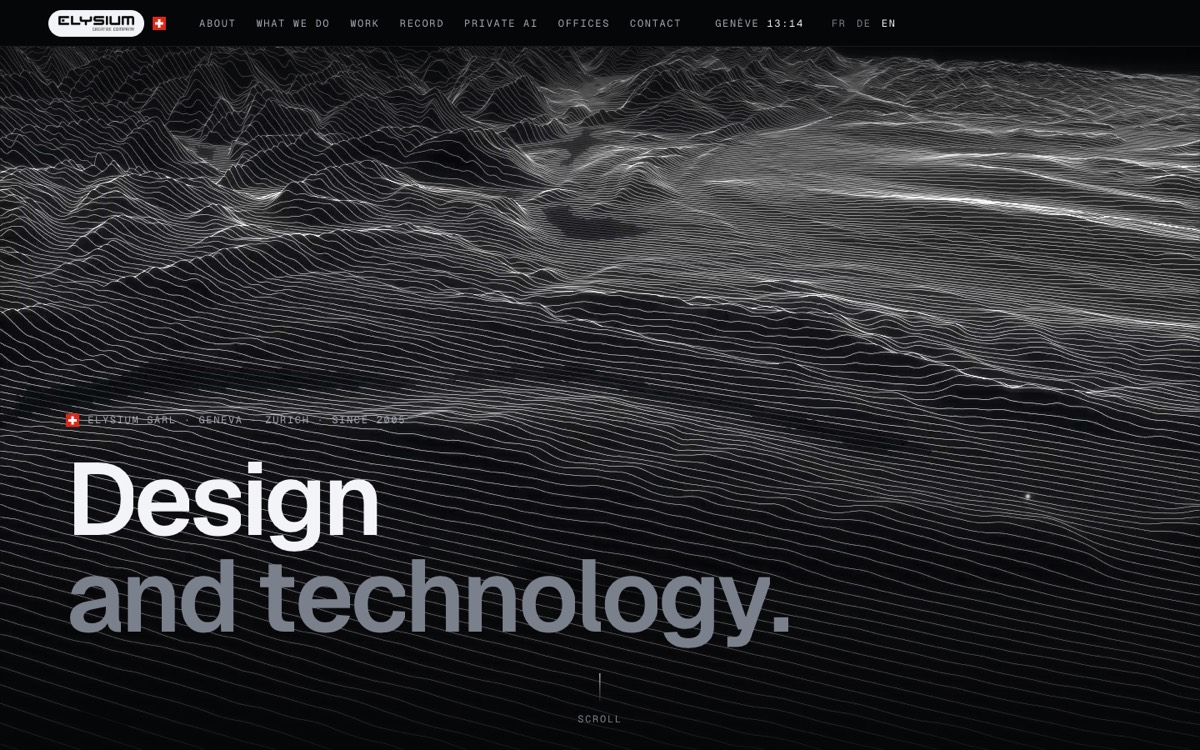
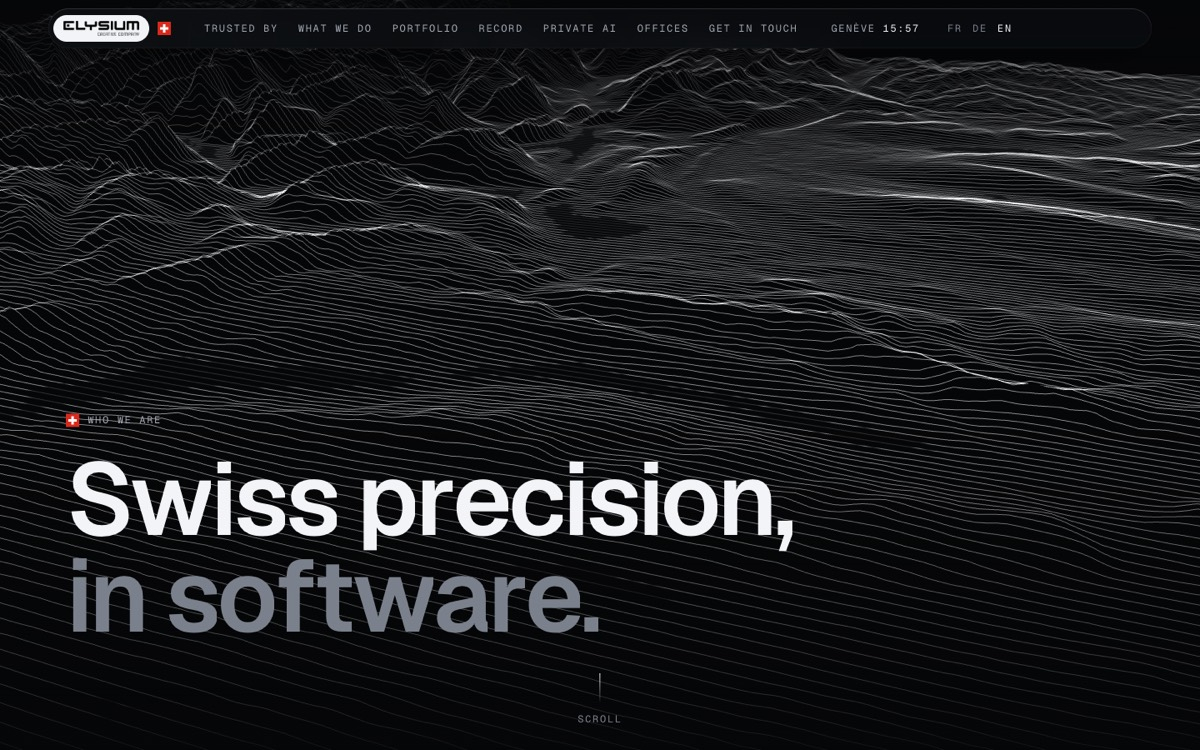
Elysium card: current site picture and elysium.cc's own description
The old thumbnail showed the rejected October build (Elysium Sàrl, since 2005,
Design and technology); the description repeated it.

diff --git a/index.html b/index.html
@@ -100,8 +100,8 @@ const groups = [
         { label: 'V3 « Atelier »', img: 'cobalt-v3', url: PAGES + 'cobalt-creation-site-v3/' },
       ],
       links: [['V1 repo', GH + 'cobalt-creation-site'], ['V2 repo', GH + 'cobalt-creation-site-v2'], ['V3 repo', GH + 'cobalt-creation-site-v3']] },
-    { name: 'Elysium', status: 'staging', date: '2026-10-05',
-      desc: 'Rebuild of elysium.cc, Geneva design & technology studio since 2005. Staging mirror; production stays on elysium.cc.',
+    { name: 'Elysium', status: 'staging', date: '2026-10-29',
+      desc: 'Rebuild of elysium.cc, a boutique Swiss software firm in Geneva and Zürich. Staging mirror; production stays on elysium.cc.',
       shots: [{ img: 'elysium', url: PAGES + 'elysium-website/' }],
       links: [['Staging', PAGES + 'elysium-website/'], ['Production', 'https://elysium.cc'], ['Repo', GH + 'elysium-website']] },
     { name: 'Letsmed', status: 'staging', date: '2026-10-03',
